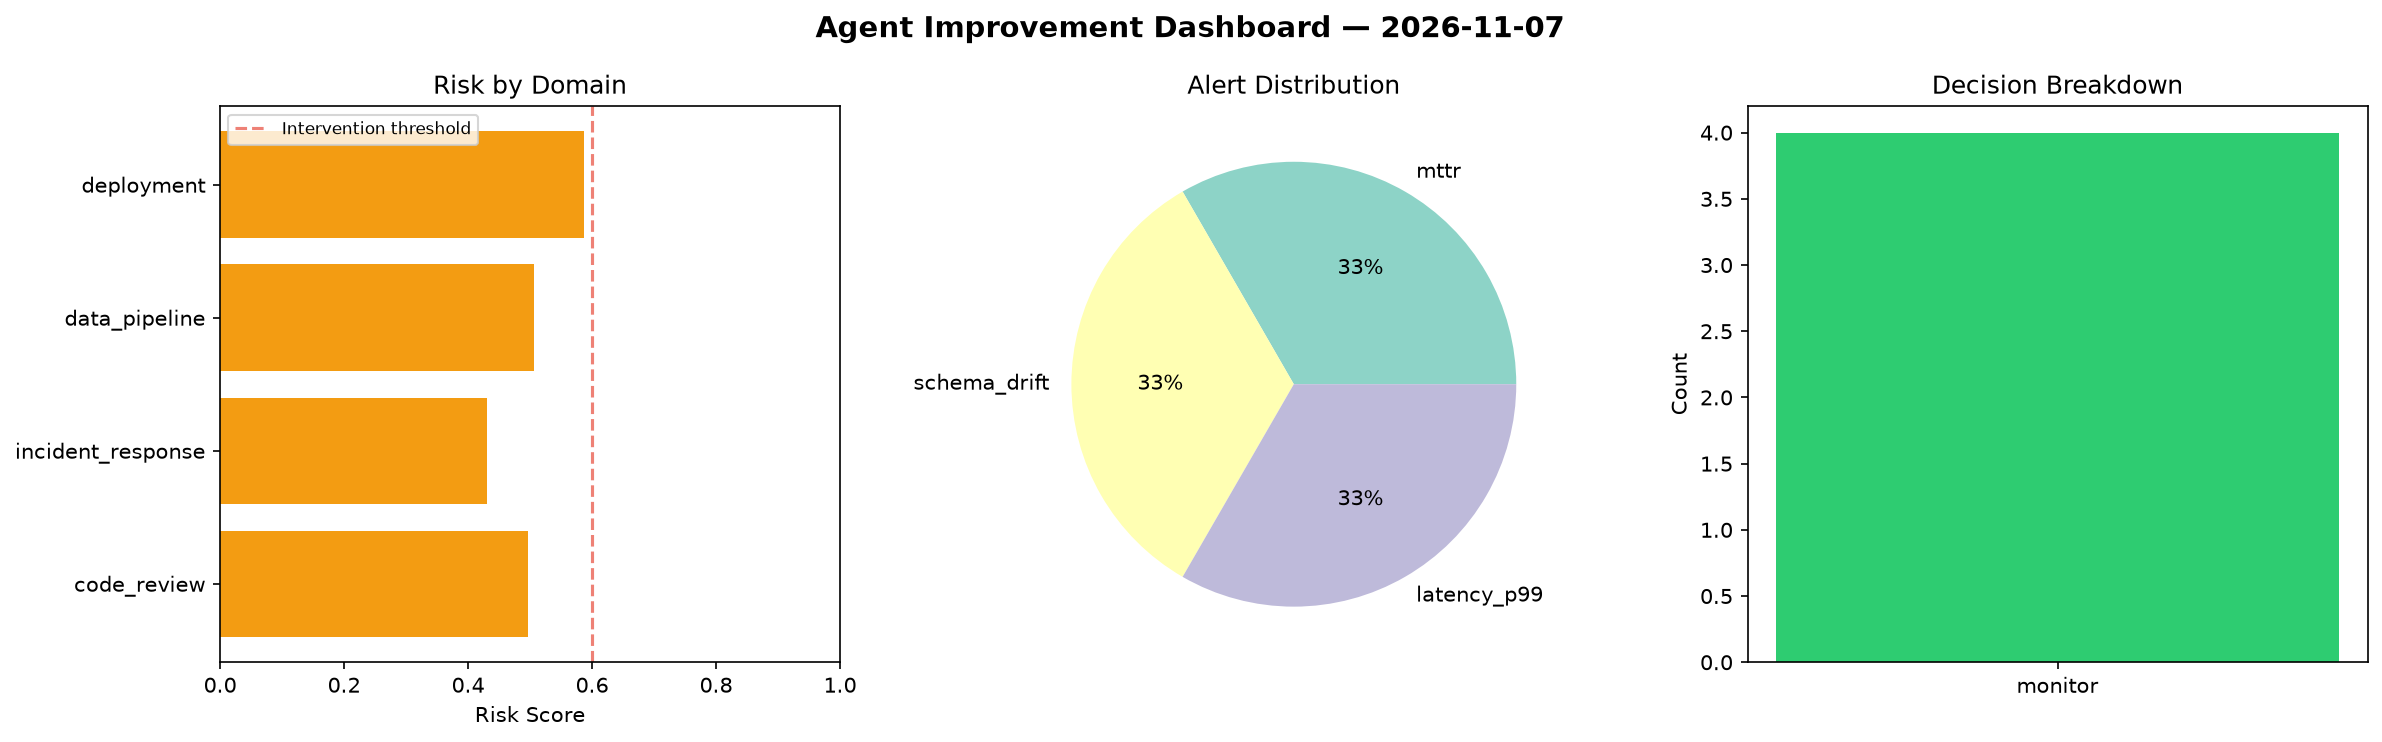
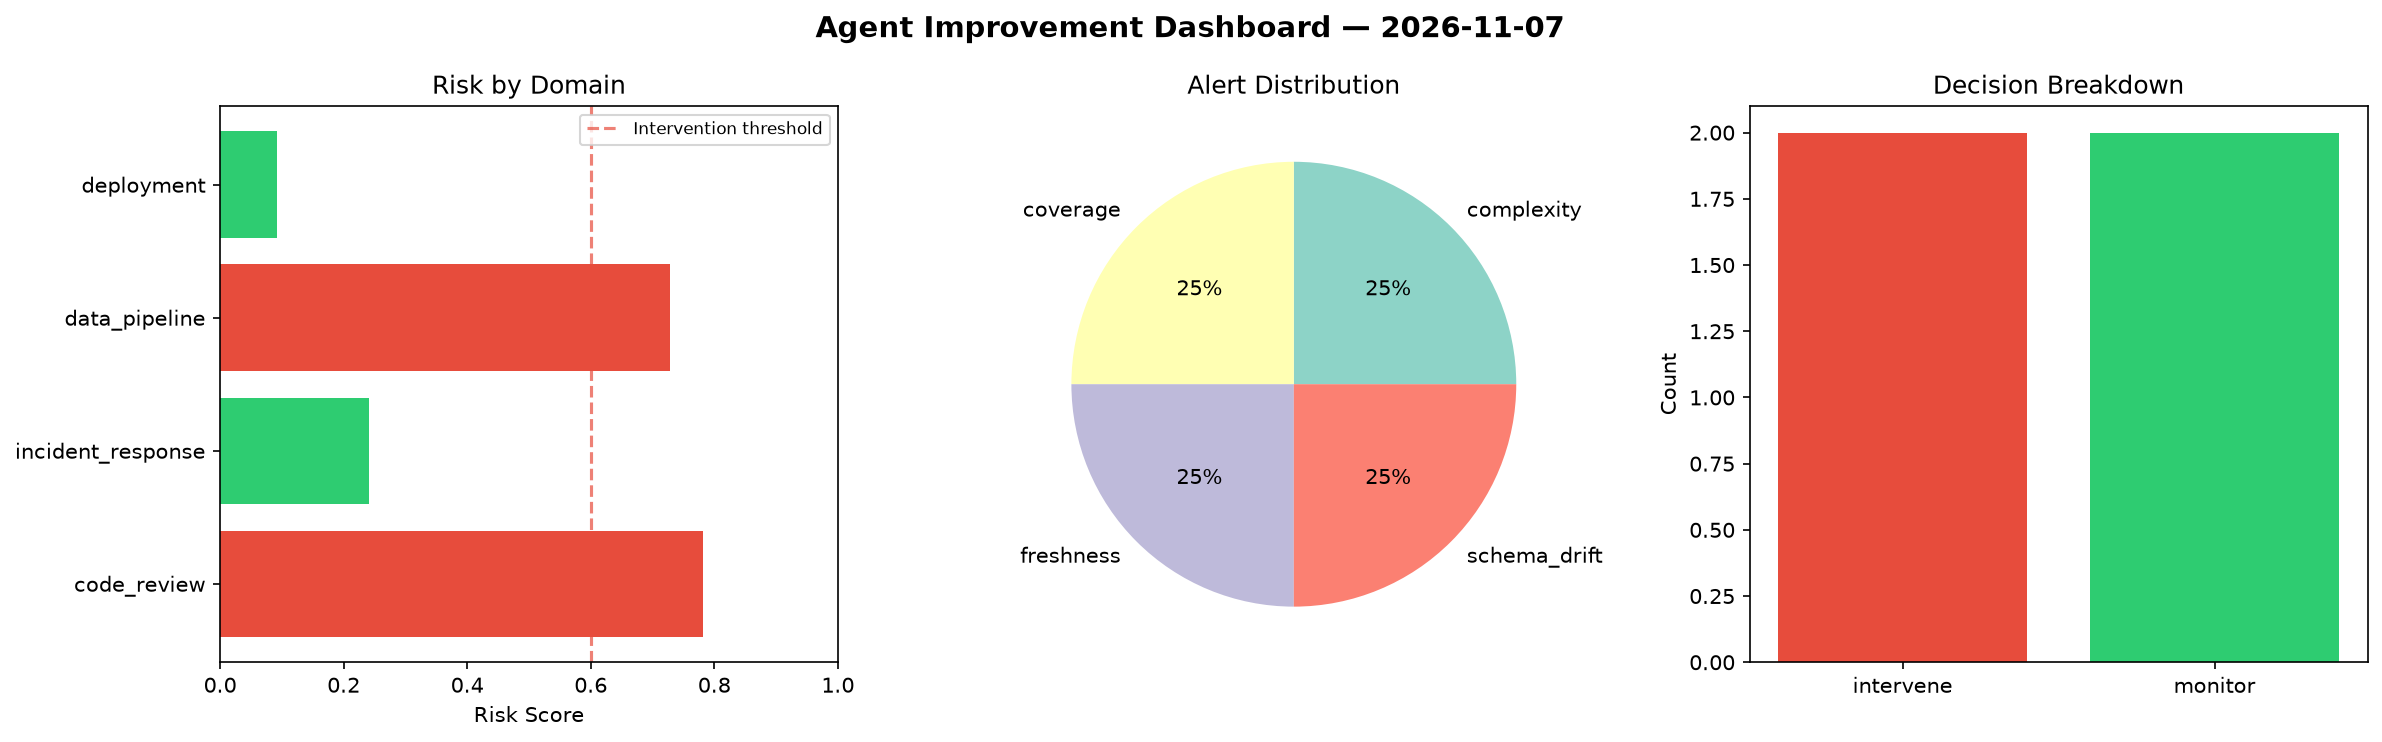
agent-improvement: daily cycle 2026-11-07T08:44

diff --git a/logs/2026-11-07.md b/logs/2026-11-07.md
@@ -1,6 +1,6 @@
 # Agent Improvement Report — 2026-11-07
 
-**Cycle ID:** `0f35684c` | **Avg Risk:** 0.5049 | **Interventions:** 0/4
+**Cycle ID:** `1343eebe` | **Avg Risk:** 0.4607 | **Interventions:** 2/4
 
 ![Dashboard](2026-11-07_dashboard.png)
 
@@ -10,18 +10,18 @@
 
 | Domain | Risk Score | Decision | Alerts |
 |--------|-----------|----------|--------|
-| code_review | 0.4961 | monitor | none |
-| incident_response | 0.43 | monitor | mttr |
-| data_pipeline | 0.5061 | monitor | schema_drift |
-| deployment | 0.5874 | monitor | latency_p99 |
+| code_review | 0.7814 | intervene | complexity, coverage |
+| incident_response | 0.2407 | monitor | none |
+| data_pipeline | 0.7278 | intervene | freshness, schema_drift |
+| deployment | 0.0928 | monitor | none |
 
 ## Delta vs Yesterday
 
 | Domain | Today | Yesterday | Change |
 |--------|-------|-----------|--------|
-| code_review | 0.4961 | 0.5743 | 📉 -13.6% |
-| incident_response | 0.43 | 0.3866 | 📈 11.2% |
-| data_pipeline | 0.5061 | 0.3181 | 📈 59.1% |
-| deployment | 0.5874 | 0.6997 | 📉 -16.0% |
+| code_review | 0.7814 | 0.5743 | 📈 36.1% |
+| incident_response | 0.2407 | 0.3866 | 📉 -37.7% |
+| data_pipeline | 0.7278 | 0.3181 | 📈 128.8% |
+| deployment | 0.0928 | 0.6997 | 📉 -86.7% |
 
-**Refinement:** `{'adjustment': 'tighten_thresholds', 'trend': 'degrading', 'window': 4}`
+**Refinement:** `{'adjustment': 'maintain', 'trend': 'improving', 'window': 4}`
